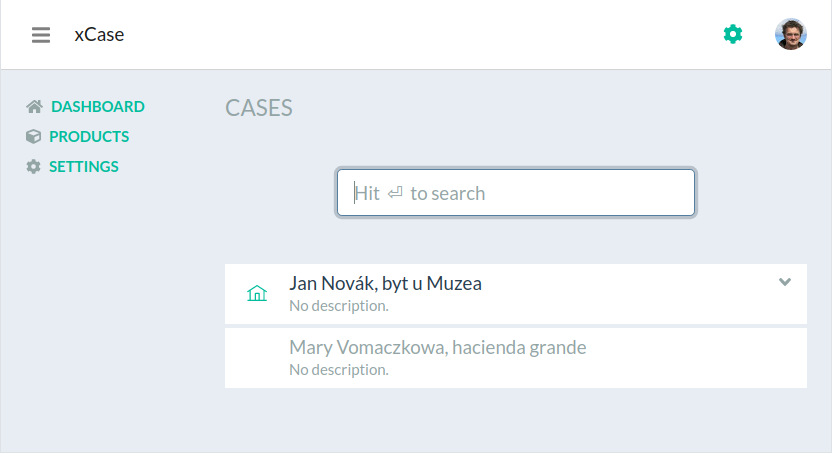
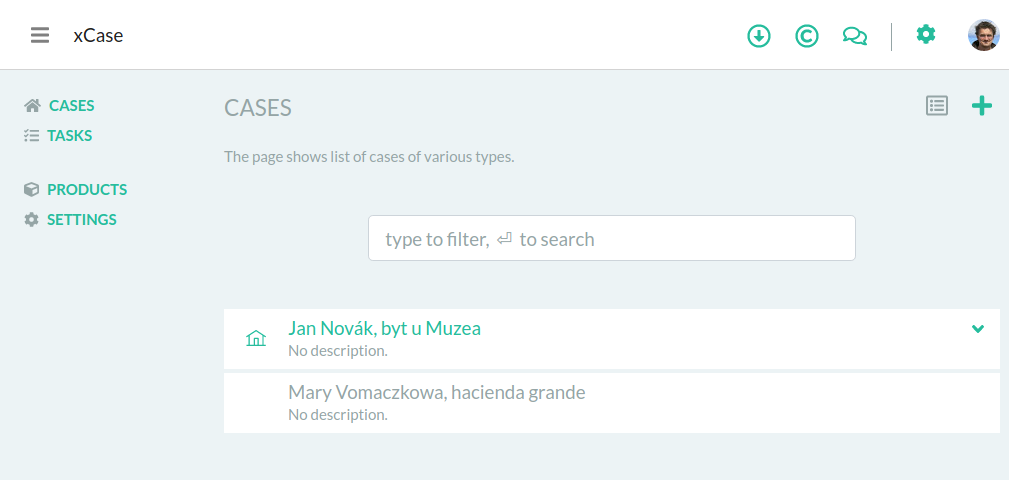
documentation

diff --git a/README.md b/README.md
@@ -4,43 +4,44 @@ This is a prototype project for generic case management system. For demo, [click
 
 ## What it does
 
+The prototype demonstrates the follows:
+- concept of generic case menagement system of various types (products)
+- use of web components, both as separate side/helper view as well as a part of case/product UI implementation
+
+### Cases
 The prototype shows a list of cases of viarious types. The first one (Jan Novak) shows a case of a known type (ihypo type), therefore it includes a complete information, including a collapsible case overview. The case may even be edited, if the business circumstances allows that.
 
 ![overview of cases](doc/cases.png)
 
 The second case (Mary Vomaczkowa) represents a case of an unknown type. Therefore it is grayed-out and cannot be previewed and/or edited.
 
-> Don't worry, the missing type will be registred later in the text.
+### Tasks
+There is no real implementation of task delivery, it is expected to integrate with some of semi/standard workload management systems. Once this is done, the UI may serve current user's tasks, again, being handled by web components-based editors.
 
-## Case types
-
-Every case has a unique type associated to it and may be seen as a representation of a product. There are certain attributes associated with every type:
-
-- product icon
-- a reference (url) to an overview, [webcomponets](http://webcomponents.org)-based component
-
-There will be more to configure, this is just a prototype.
-
-## Registering new type
-
-To register a new product type, navigate to a products section, showing all known case types. To add new type, click the plus sign and choose appropriate case descriptor (json) file. Successfully registered type should look like this:
-
-![overview of cases](doc/products.png)
-
-For the case descriptor file, see [this test file](server/test/product.json).
+### Products
+Every case type (also called a product) need to be registered within the system. The *Products* page shows a list of known products, you may explore them o register new one. To add new type, click the plus sign and choose appropriate case descriptor (json) file. For the case descriptor file, see [this test file](server/test/product.json).
 
 Once registered, the new case type is applied immediately and the second case gets appropriate icon and overview.
 
-![overview of cases](doc/cases-reg.png)
+Product definition/configuration consists of an icon, several data elements (overview, create and edit web component urls) and a set of context actions. Every action may be displayed as 
+- a dialog,
+- a page element, preserving the header/navigation bars,
+- a new separate window/tab (useful for download actions, for example).
 
-## Implementation notes
+### Settings
+The settings page contains a list of addon components available under top-right header icons. Every icon displays right-aligned sidebar with appropriate component, for example a list of documents, calculators or chat.
 
-- components are registered by [products context](client/ProductsContext.js) during it's initialization phase (see useEffect -- a new `script` element is created, configured and attached to document body),
-- to use the component, a dynamically-named component is constructed and used as overview, see [CaseOverview](client/components/CaseOverview.js) component.
+![settings with addon](doc/settings-addon.png)
+
+All components are registered independently on products, howsever, they are based on the same web components technology.
+
+## Implementation
+
+Components are registered by [product](client/ProductsContext.js) and [application](client/AppContext.js) contexts during their initialization phase (see useEffect -- a new `script` element is created, configured and attached to document body). To use the component, a dynamically-named component is constructed and used as overview, see [CaseOverview](client/components/CaseOverview.js) component.
 
 ### Rendering 
 
-To implement an component, a [webcomponets.org](http://webcomponents.org) should be used. Here is an example of the [IHYPO case type overview](client/static/ihypo-overview.js). Please note, the component must be registered under appropriate name (`<type-name>-overview`).
+To implement an component, a [web componets standard](http://webcomponents.org) should be used. Here is an example of the [IHYPO case type overview](client/static/ihypo-overview.js). Please note, the component must be registered under appropriate name.
 
 ```
 class IHypoOverview extends HTMLElement {
@@ -51,23 +52,17 @@ class IHypoOverview extends HTMLElement {
   }
 }
 
-// register the new custom element
 customElements.define('ihypo-overview', IHypoOverview)
 ```
 The 'loanamount' attribute is propagated into the webcomponent from the case data in form of attribute and respective value. Checkout the [CaseOverview](client/components/CaseOverview.js) for details.
 
-> Correct, the overview is not neccesarily accurate for all the cases.
-
-### Eventing
-
 To propagate certain information back into the host application, the web components has to use the CustomEvent mechanism. The host application must expect the event to come, for example, the ihypo-create.js uses the event to propagate the process start event as follows:
 ```
 const submitButton = document.getElementById('submitButton');
-  submitButton.onclick = (event) => {
-    event.preventDefault();
-    this.dispatchEvent(new CustomEvent("submit", { detail: ... }));
-  } 
-}
+submitButton.onclick = (event) => {
+  event.preventDefault();
+  this.dispatchEvent(new CustomEvent("submit", { detail: ... }));
+} 
 ```
 
 ### Angular
@@ -114,21 +109,31 @@ export default {
 Use your future fancy framework as long as it supports the webcomponents standard. 
 Use webcomponents, stop the framework wars, do something meaningful.
 
-## Summary and next steps
+## Next steps
 
-The existing code shows implementation of webcomponents-based case list using React/Node. This is very basic implementation, may be extended heavily
+The existing code shows implementation of webcomponents-based case list using React/Node. This is very basic implementation, may be extended heavily.
 
-- [x] [implement proper overview, showing real data](https://github.com/jaroslavpsenicka/xcase/issues/1)
-- [x] [implement proper case-type/product detail page showing details of registered JSON](https://github.com/jaroslavpsenicka/xcase/issues/2)
-- [x] [implement a case editor web component](https://github.com/jaroslavpsenicka/xcase/issues/3) 
-- [x] [implement some form of a new case button and use a web component to create case](https://github.com/jaroslavpsenicka/xcase/issues/4) 
-- [x] [implement better validations during JSON upload](https://github.com/jaroslavpsenicka/xcase/issues/5)
-- [x] [implement some components](https://github.com/jaroslavpsenicka/xcase/issues/6) using [Angular](https://medium.com/@IMM9O/web-components-with-angular-d0205c9db08f)/[React](https://dev.to/frustigor/the-fastest-way-to-create-web-components-with-react-403)/[Vue](https://dev.to/aumayeung/create-web-components-with-vue-js-2bb0)
-- [x] [allow registering custom case actions](https://github.com/jaroslavpsenicka/xcase/issues/7)
+For the application
 
-lower priority tasks:
-
+- [ ] enable addon configuration (register, reorder, remove)
+- [ ] think about addon/component lifecycle and initialization
 - [ ] allow registering case-type/product-specific settings component
-- [ ] allow processing REST or Kafka-based events, for example case creation notification
 - [ ] consider versioning and rollbacks of misbehaving JSONs
-- [ ] consider receiving and displaying notifiations
+- [ ] consider receiving and displaying notifiations (simple JSON endpoint)
+- [ ] implement proper create and edit endpoints
+
+For documents addon
+
+- [ ] integrate with some CMS, display proper content
+
+For calculators addon
+
+- [ ] implement a simple calculator
+
+For chat addon
+
+- [ ] handle options properly, maybe show as dialog + selected option as user's statement in the chat
+- [ ] implement delete functionality (uses dialog action type)
+- [ ] implement download functionality (uses window action type)
+
+
